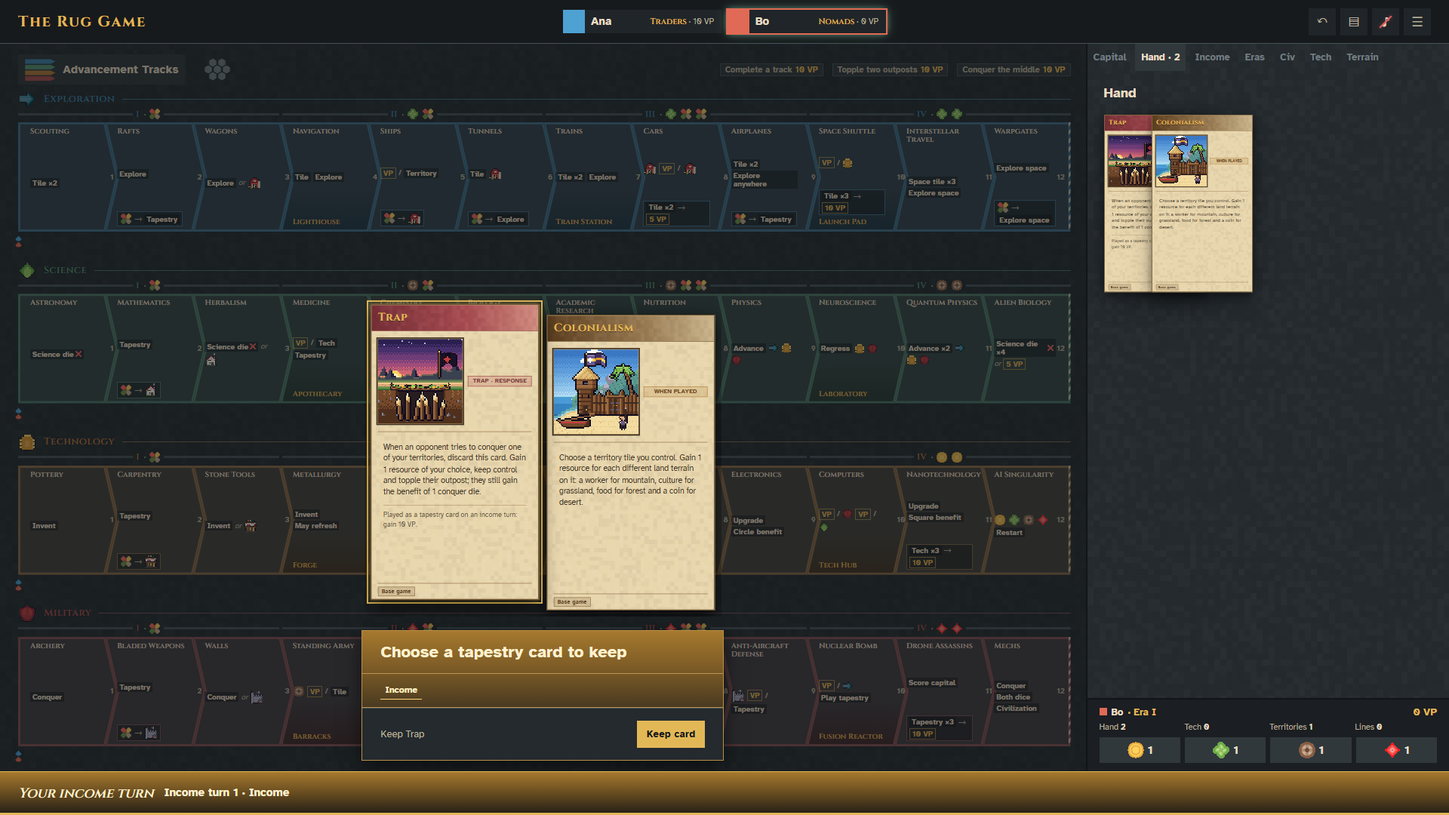
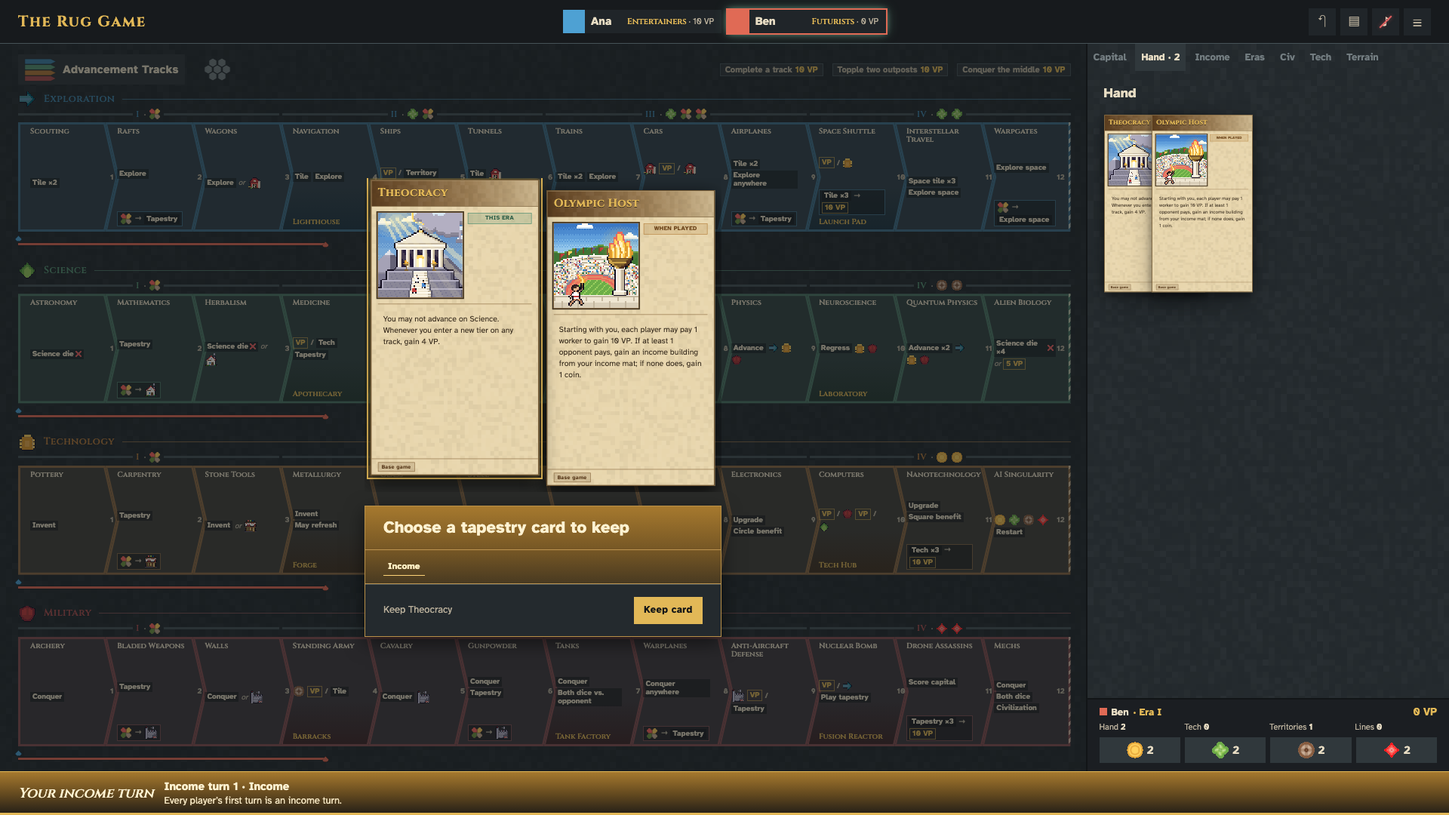
Fix #79: the README and docs show every prompt at the tracks' centre
The README, docs/ui/README.md and the components index show and describe
the new placement, with the prompt screenshots retaken from the running
game at 1920x1080 and a new one of the tech cards to invent. The design
document records the owner's two rulings, CLAUDE.md the cross-issue one,
and docs/status.md the #79 and #80 entries (Refs #80).

diff --git a/docs/ui/README.md b/docs/ui/README.md
@@ -208,9 +208,9 @@ The arrangement and selection styling are the reference. Labels such as Archipel
 
 - **The World Map** is the real board's hex grid (owner, 2026-10-27): 34 hexes for 1–3 players, 61 for 4–5, flat-topped as on the printed board with start 1 at the top. Each corner of a territory is a wedge of its terrain, an island sits in the middle, and unexplored hexes are dark and dashed. Outposts are squares in the player's colour (toppled ones lie down), tokens are circles. Since #6 every wedge and island shows its terrain's picture (`hex/*`), clipped to its shape, with a coast where land meets sea and the cloud or volcano where R77 puts them, so a tile in any turn stays crisp and shows the terrains the engine scores.
 - **Each space shows its benefit, and its bonus in a small box** (#59, 2026-10-27), as the printed board does: resources, buildings and track symbols are their art; the game symbols without art yet are short words (Tile, Tapestry, Explore, Conquer, Invent, Science die, VP), as #5 decided; a benefit without its own benefit carries a red X; "or" joins a choice. The bonus box shows its price, an arrow and what it gives. The full words are the space's tooltip and label. A board with height to spare makes the spaces up to 1.25 times as tall as wide; on a short screen (1366×768) the symbols shrink and a few bonuses are cut off, with the words still in the tooltip.
-- **The spaces a player can pay for** have a green outline; the selected one keeps the gold outline. The footer then shows the space's benefit and bonus in words, its price and **Advance**. When the payment has a choice, picking the space opens it at once in a panel at the screen's centre: one row per resource, the tier's own resource already filled in (#75); the footer's Advance waits while it is open.
+- **The spaces a player can pay for** have a green outline; the selected one keeps the gold outline. The footer then shows the space's benefit and bonus in words, its price and **Advance**. When the payment has a choice, picking the space opens it at once in a panel at the tracks' centre (#79): one row per resource, the tier's own resource already filled in (#75); the footer's Advance waits while it is open.
 - **The achievements** sit in the head of the shared area, with the claimants' colours and the next VP.
-- **The decision panel** is the mockup's prompt, designed per decision in #28 (below). A map decision lights up its hexes and leaves the map clickable.
+- **The decision panel** is the mockup's prompt, designed per decision in #28 (below). Since #79 it opens at the centre of the tracks, with any cards on a shelf above it; a map decision lights up its hexes, and on the Map view the panel docks at the right so the map stays clickable.
 - **The header** has the turn clock when the timer is on (red, with the seconds in words, in the viewer's last 5 seconds) and **Undo**.
 - **Your overview** at the foot of the player area is the mockup's compact block; its last count is complete capital lines.
 
@@ -235,7 +235,7 @@ The arrangement and selection styling are the reference. Labels such as Archipel
 
 ![Exploring a territory: the player's tiles in the panel, each lit hex with the picked tile's best VP, and the chosen hex previewing it turned once](screens/game-prompt-explore.png)
 
-![Paying for an advance: one row of the four resources in a panel at the screen's centre](screens/game-prompt-advance.png)
+![Paying for an advance: one row of the four resources in a panel at the tracks' centre](screens/game-prompt-advance.png)
 
 ![Paying a bonus with tiles: the tiles three to a row, 1 of 2 chosen](screens/game-prompt-tiles.png)
 
@@ -246,15 +246,26 @@ The arrangement and selection styling are the reference. Labels such as Archipel
 ![The income turn](screens/game-prompt-income.png)
 
 - **One model for every decision:** `src/lib/prompts.js` turns the open decision into a title, an instruction, a layout and one option per answer, each chosen in the panel, on the card shelf, on the map or on the capital. Nothing is sent until Confirm, even with one answer.
-- **Several resources, cards or tiles (#75):** as on Board Game Arena, each resource to choose is a row of the four resources with the counts the player would hold, and each card or tile a picture to press; a count says how many are chosen, and Confirm sends only one of the decision's own answers (`src/lib/picks.js`). Rows stack and the panel sits at the screen's centre (owner); a payment in tapestry or tech cards keeps the shelf above a panel at the bottom. A resource no legal answer allows is off, with the reason as its title; the overview's counters show the choices so far; a gain past 8 says, in red, what would be lost. A trade picks its offer first, then its rows. A decision with only one way to pay keeps its one option. The design is `docs/superpowers/specs/2026-10-28-multi-select-prompt-design.md`.
+- **Several resources, cards or tiles (#75):** as on Board Game Arena, each resource to choose is a row of the four resources with the counts the player would hold, and each card or tile a picture to press; a count says how many are chosen, and Confirm sends only one of the decision's own answers (`src/lib/picks.js`). Rows stack and the panel sits at the centre (owner); since #79 that is the tracks' centre, as for every prompt, card payments included. A resource no legal answer allows is off, with the reason as its title; the overview's counters show the choices so far; a gain past 8 says, in red, what would be lost. A trade picks its offer first, then its rows. A decision with only one way to pay keeps its one option. The design is `docs/superpowers/specs/2026-10-28-multi-select-prompt-design.md`.
 - **The dice tray (#61):** every science-die, conquer-dice and Alchemists roll tumbles in a tray over the middle of every screen at the table, the pass screen too, for about a second, lands on the rolled faces (style C die bodies with the track symbol, VP words, a resource icon or ? drawn on), holds under a caption ("Vera rolls the conquer dice", "You roll…" online), and fades; several rolls in one batch play in order. Only fresh events roll, so a refresh plays nothing. A click or Escape ends it; it takes no focus, and a live region reads each result once in the log's words. With reduced motion the dice land at once. A dice cue joins the sounds. The design is `docs/superpowers/specs/2026-10-28-dice-tray-design.md`.
 - **Footer while a decision is open:** the panel asks the question; the footer gives its turn context. During setup it says **Your setup choice**. During a played turn it names the active turn and its latest advance where one is known. During income it keeps the turn number and step, without repeating the panel title. The TurnBar library section shows both decision states. A future exact cause line belongs to #60.
 - **Art, as in the mockup:** resources at 48 px with their counts, track symbols, buildings, landmarks, civilization portraits, space and territory tiles; dice faces and VP are words (#5). A bonus shows its cost and takes its track's colour.
-- **Cards** sit on a shelf above the panel, as full cards: tapestry cards (play, keep, discard, copy, respond), tech cards with the deck as a card back, both civilizations at setup and the two capital mats. Hovering a tapestry or tech card shows it in full.
+- **Cards** sit on a shelf above the panel, the two one stack at the tracks' centre (#79), as full cards: tapestry cards (play, keep, discard, copy, respond), tech cards with the deck as a card back, both civilizations at setup and the two capital mats. Hovering a tapestry or tech card shows it in full.
 - **Civilizations and capital mats** (2026-10-27, #56–#58): the civilization cards are whole, 425 px wide at their own height, as the decision mockup shows them, and the gold outline wraps each card exactly. A row too tall for the shelf is scaled down just enough, never below 0.75; past that the shelf scrolls (the Mystics at 1440×900). Each capital mat is its real 9×9 grid, 380 px, composed from the terrain tiles with the table's seed, so it looks as it will in the Capital tab; the example mat art is no longer used. A panel with no options of its own has no content area: its status line gives the instruction, leaving the shelf more height.
 - **The map:** choosing a territory lists its answers. An explore (#74) shows the tiles the player holds as pictures in the panel. Pick a tile and every lit hex shows the most that tile scores there. Pick a hex and the tile goes on it at its best turn, previewed on the map. Turn it with the arrows or the R key until it suits; the chosen line and the VP beside the arrows follow. Explore stays in view however many tiles there are. The Terrain tab's tiles can be picked too. While a panel is docked for a choice on the map (an explore, a conquest, a Nomads placement), the map makes room for it, so no hex lies under the panel.
 - **The capital:** a building's open plots are lit on the Capital tab and a click previews it there; a landmark comes from the tray, snaps only to the engine's legal places, turns with . or , (R before #83), and the piece's own lock sends it. Beside the mat and the Craftsmen's columns stay panel choices.
 - **The income turn** is gold, as in the mockup: the panel's title and step strip (Ability, Tapestry, Upgrade, Score, Income, only the steps that turn runs) and the footer's "Your income turn · Income turn n · step".
+
+**Built in #79 (2026-10-28): every decision prompt at the tracks' centre.** The owner ruled that every prompt opens at the centre, then, reviewing the library, that it is the centre of the tracks, not of the screen. The design is `docs/superpowers/specs/2026-10-28-decision-prompt-design.md`.
+
+![Inventing: the tech cards and the deck above the panel, one stack at the tracks' centre](screens/game-prompt-invent.png)
+
+- **One place:** the shared area's scrim, and in its middle one column: the shelf of cards, if any, 18 px above the panel. Options prompts, card choices, card and tile payments, a choice on the map seen from the Tracks view, placing on the Capital tab, an advance's payment and the first-income notice all open there; the bottom placement is gone. The stack's middle is the shared area's, which is also the screen's vertical middle.
+- **The one exception:** while the Map view shows a choice on the map, the panel docks at the right and the map lays itself out beside it (#26, #74).
+- **The shelf** is as tall as its cards, at most the room left above the panel; civilization cards fit that room, never below 0.75 (#57). A shelf wider than the shared area scrolls sideways.
+- **Widths:** a pick of several things, a trade and the notice keep #75's 440 px (`--narrow-panel-width`); any other panel is as wide as its content, 480 to 900 px.
+- **The dice tray** learns from the game what is open: over a panel it rolls at the top of the board, as #61 approved; over a stack of cards, which can fill the board's height, it rolls over the player area.
+- **Code:** `src/screens/game/DecisionPrompt.svelte` renders the one panel from `src/lib/prompt-state.svelte.js` (what the viewer has chosen, keyed to the decision) and `panelControls` in `src/lib/prompts.js` (its words and buttons).
 
 **Built in #77 (2026-10-28): the first turn takes income by itself.** The owner changed the issue's brief: "Just make the first income automatic. make sure player knows what's going on. also make sure player knows when there are no more legal moves except to income." The design is `docs/superpowers/specs/2026-10-28-first-income-turn-design.md`.
 
@@ -263,7 +274,7 @@ The arrangement and selection styling are the reference. Labels such as Archipel
 ![A turn with only income to take: the footer from the component library](screens/game-forced-income.png)
 
 - **Income turn 1 is never asked.** A first turn must be an income turn (01 §4.1), so the engine takes it for every seat in turn order as setup ends. It still stops for whatever that turn asks, such as the tapestry draft's keep, and the gold footer then adds "Every player's first turn is an income turn." While another player's first income asks them something, the waiting footer says "Ana is taking their first income turn." (later: "Ana is taking income turn 3.").
-- **The notice** (`IncomeNotice`) opens once per player, in the gold income panel at the screen's centre, after their income turn 1: **Era I begins**, why nobody asked, "You start with" their resources as chips and their holdings in words, and "From now on, each turn you either advance on a track or take income." **Got it** or Escape closes it. It never opens over a question, and a refresh or the other seat at a hot-seat screen doesn't bring it back (`sessionStorage`, per table and seat).
+- **The notice** (`IncomeNotice`) opens once per player, in the gold income panel at the tracks' centre (#79), after their income turn 1: **Era I begins**, why nobody asked, "You start with" their resources as chips and their holdings in words, and "From now on, each turn you either advance on a track or take income." **Got it** or Escape closes it. It never opens over a question, and a refresh or the other seat at a hot-seat screen doesn't bring it back (`sessionStorage`, per table and seat).
 - **A turn with only income to take** says "You can't pay for any advance, so take an income turn." with what this income turn does, and a gold **Take income** where **Advance** sits; the left-side income reveal is gone, and selecting a track space keeps this footer.
 - **The income words** name the eras: "End era I, gain income and begin era II." up to era IV, and "End era IV, score it and finish playing." before income turn 5.
 
@@ -322,7 +333,7 @@ Progress lines start below the first tile and stop beneath the middle of the rea
 
 ### Decision prompt previews
 
-The **Decision examples** control opens interactive layout fixtures for payment, resource, territory, capital-plot, card, civilization setup, die and trap decisions. These examples test presentation and selection only; the engine supplies legal options, costs and outcomes in production. A prompt covers only the shared left three-quarter field, leaving the private right-hand area visible. A translucent dark scrim reveals the board beneath it. The panel sits a small distance above the footer, centered horizontally. Its width and height follow the decision content up to the available shared-field size; long decisions scroll inside the panel. Ordinary panels use a darker layer of the same pixel-noise texture as both middle regions, with a thin border on all four sides matching the main header and footer separators. Choice artwork uses the native art files, including 48 px resource icons where a resource is the primary choice. Card selection presents actual artwork cards with drop shadows **above** the panel; the panel holds the instruction and confirmation action. The civilization setup example models two dealt cards when Random civilizations is on.
+The **Decision examples** control opens interactive layout fixtures for payment, resource, territory, capital-plot, card, civilization setup, die and trap decisions. These examples test presentation and selection only; the engine supplies legal options, costs and outcomes in production. A prompt covers only the shared left three-quarter field, leaving the private right-hand area visible. A translucent dark scrim reveals the board beneath it. The panel sits a small distance above the footer, centered horizontally; the built game opens every prompt at the tracks' centre instead (#79). Its width and height follow the decision content up to the available shared-field size; long decisions scroll inside the panel. Ordinary panels use a darker layer of the same pixel-noise texture as both middle regions, with a thin border on all four sides matching the main header and footer separators. Choice artwork uses the native art files, including 48 px resource icons where a resource is the primary choice. Card selection presents actual artwork cards with drop shadows **above** the panel; the panel holds the instruction and confirmation action. The civilization setup example models two dealt cards when Random civilizations is on.
 
 The chained **Ships → Farm** preview opens only after the player presses **Pay & build** in the optional Ships footer. It starts with a benefit prompt offering **Pay & build** or **Cancel**; Skip remains in the footer. Paying selects and highlights the Capital tab. The player chooses any empty, passable square directly on that mat; no separate tile list or persistent plot highlight is shown. Choosing the square places the visual Farm fixture and opens the **Complete** stage with its actual square and one **Continue** action. The stage labels describe progress; they are not menu choices. The prompt title uses gold Atkinson, and its bottom section takes the source advancement track colour, matching the optional footer effect. Cancel returns to the optional footer without placing anything. No resource balance or saved game state is changed.
 

diff --git a/docs/architecture.md b/docs/architecture.md
@@ -21,7 +21,7 @@ The project's modules in detail, with the issue that added each. CLAUDE.md keeps
 - `api/rooms.mjs` holds the table rules (#22) as pure transitions in Bird Table's style: `createRoom`, `configure`, `join`, `addSeat`, `removeSeat`, `leave`, `start`, `end` and `play`, plus `settings`, `undo`, `timeout`, `tick`, `nextDeadline`, `scopeOf`, `phase`, `seatsOf` and `cleanName`. #25 adds `ready` (a seat's readiness in an online lobby, cleared by a host change). #29 adds `deal` (0 before the first deal, 1 more at each `start`, in the room view), so the client tells a new deal from the old game. #24 adds `TIMERS` (off, 1, 2 and 5 minutes), `HISTORY_LIMIT` (20 undo steps) and `AUTO_LIMIT` (1,000 automatic answers in a row), and the room fields `timer`, `undo`, `clocks`, `declines` and `history`. Each returns a new room, or `null` when it closes, and throws the engine's `PlayerError`. The code says room, players see table. For the server's `Map` of rooms it has `newCode`, `addRoom` (`MAX_ROOMS` 1,000), `expireRooms` (`ROOM_IDLE_MS`, a day), `openTables` and `unfinishedSeat`. Room seat `i` is game seat `i + 1`; seats never move or disappear while a game is on the table. It uses the engine only through `src/lib/engine/game.js`, whose `checkOptions()` checks a table's options.
 - **Client.** The browser interface is **Svelte 5** with runes forced on (5.57.2), built by **Vite** (8.3.4), without SvelteKit. The project root is Vite's root, laid out like the owner's other Svelte projects (owner, 2026-10-21). The full layout is in docs/conventions.md.
   - `index.html` is the game page. `src/main.js` mounts `src/App.svelte`, which shows one screen at a time from the store (#25): `src/screens/Landing.svelte`, `Lobby.svelte` and, once a game is dealt, `Game.svelte` (#26), with `PageHeader.svelte` and `HelpPanel.svelte`. Screens own state and call the store; the components in `src/lib/components/` stay presentational.
-  - The client's plain modules (#25), each tested under Vitest: `src/lib/api.js` (`createApi`, `ApiError`; the token in `sessionStorage`, so each tab is its own guest), `changes.js` (`change()`: a stale version is retried once while the seats stay the same), `boot.js` (where a returning tab lands), `poll.js` (`pollTable`, one long poll at a time with back-off), `lobby.js` (seat slots, who may change what, labels) and `names.js` (Lazar's name generator). #26 adds `turn.js` (`myDecision`, `advanceOptions`: the engine's own `advances()` and answers run on the viewer's view; #77 adds `incomeWords`, `forcedIncome`, `takingTurnWords` and `firstIncomeNotice`, the words of income turns and the one-time notice after income turn 1), `moves.js` (`sendMove`, `seatToShow`), `board.js` (the tracks and achievements), `hexmap.js` (the board's hex geometry and `mapHexes`), `describe.js` (plain English for effects, costs, decisions and answers), `clock.js` and `overview.js`. #27 adds `src/lib/area/` (`capital.js`, `income.js`, `terrain.js`, `tabs.js`, `players.js`: what each player tab and the overview draw from a seat of the view) and `src/lib/cards/game-cards.js` (`techCardData`, `tapestryCardData` from the engine through `describe.js`); the screens `src/screens/game/PlayerTabs.svelte` and `PlayersOverview.svelte`. #28 adds `src/lib/prompts.js` (`promptFor`, `incomeView`, `effectArt`: what the decision panel draws for an open decision), `src/lib/area/explore.js` (`exploreTiles`, `tileScores`, `hexScores`, `exploreIndex`, `tilePreview`, `tileWords`, `exploreLine`: the tiles an explore offers, what each scores on each hex in each turn, and the words for the chosen one; #74 replaced `exploreChoices`) and `src/lib/area/placement-targets.js` (`plotTargets`, `legalNear`, `nextRotation`, `placeNear`, `placingPiece`: the capital's legal places for the Capital tab). #29 adds `src/lib/event-feed.js` (`freshEvents`: the events since the last view of the same table and deal, none after a refresh; `liveEvents`: without what an `undone` took back), `log.js` (`eventText`, `logEntries`, `SILENT`: the log's words), `results.js` (`standings`, `tieExplanations`, `yourResult`, `ruleNote`, `tableFacts`, `scoreboard`, `VP_SOURCES`), `sound.js` (`cueFor`, `createSoundPlayer`, the CC0 Kenney cues in `static/audio/`) and `motion.js` (`highlights`); the store keeps `fresh` and `freshCount`, and App shows `src/screens/Results.svelte` for a finished game unless the player reviews the board. #30 adds `src/lib/pass.js` (`handOver`: at a hot-seat table, which view to take or ask for and whom the pass screen names; `passReason`) and the screen `src/screens/HandOver.svelte`; the store keeps `passing`, `taking` and `takeSeat()`, and App shows the pass screen instead of the game while a player is named. #83 adds `src/lib/hotkeys.js` (`hotkeyAction`, `TRACK_KEYS`: the game's hotkeys). #42 adds `src/lib/rules-help.js` (`RULES_HELP`, How to play's rules), `src/lib/civ-rules.js` (`civRules`, `civAbilityText`: the base civilizations' full abilities by version), `src/lib/shortcuts.js` (`SHORTCUTS`) and the screen part `src/screens/game/RulesPanel.svelte`. #61 adds `src/lib/dice.js` (`rollsOf`, `faceOf`: the rolls in a batch of fresh events, the faces they land on and their captions; `App.svelte` draws the `DiceTray` over every screen) and the die bodies in `tools/art/parts/dice.js`. #75 adds `src/lib/picks.js` (`pickModel`, `advanceModel`, `tradeOffers`, `offerModel`, `emptySelection`, `togglePick`, `toggleItem`, `canPick`, `canPickItem`, `matchIndex`, `pendingCounts`, `pickStatus`, `rowView`: several resources, cards or tiles chosen one by one and matched to one of the decision's answers; `promptFor` carries its `picks` and a trade's offers). #59 adds `src/lib/glyphs.js` (`effectGlyphs`, `spaceGlyphs`, `bonusGlyphs`: what a track space draws for its benefit and bonus), and #56 `matPlots` and `terrainSeed` in `src/lib/area/capital.js`. `src/lib/game.svelte.js` is the rune store that ties them together. `src/lib/engine/game.js` also exports `completeDistricts`, `uniformLines`, `matchingSides`, `turned`, `INCOME_STEPS`, `INCOME_STEP_KINDS`, and `advances`, `DECISIONS`, `openDecisions`, `controlledTerritories`, `cityPlots` and `completeLines` for the app.
+  - The client's plain modules (#25), each tested under Vitest: `src/lib/api.js` (`createApi`, `ApiError`; the token in `sessionStorage`, so each tab is its own guest), `changes.js` (`change()`: a stale version is retried once while the seats stay the same), `boot.js` (where a returning tab lands), `poll.js` (`pollTable`, one long poll at a time with back-off), `lobby.js` (seat slots, who may change what, labels) and `names.js` (Lazar's name generator). #26 adds `turn.js` (`myDecision`, `advanceOptions`: the engine's own `advances()` and answers run on the viewer's view; #77 adds `incomeWords`, `forcedIncome`, `takingTurnWords` and `firstIncomeNotice`, the words of income turns and the one-time notice after income turn 1), `moves.js` (`sendMove`, `seatToShow`), `board.js` (the tracks and achievements), `hexmap.js` (the board's hex geometry and `mapHexes`), `describe.js` (plain English for effects, costs, decisions and answers), `clock.js` and `overview.js`. #27 adds `src/lib/area/` (`capital.js`, `income.js`, `terrain.js`, `tabs.js`, `players.js`: what each player tab and the overview draw from a seat of the view) and `src/lib/cards/game-cards.js` (`techCardData`, `tapestryCardData` from the engine through `describe.js`); the screens `src/screens/game/PlayerTabs.svelte` and `PlayersOverview.svelte`. #28 adds `src/lib/prompts.js` (`promptFor`, `incomeView`, `effectArt`: what the decision panel draws for an open decision), `src/lib/area/explore.js` (`exploreTiles`, `tileScores`, `hexScores`, `exploreIndex`, `tilePreview`, `tileWords`, `exploreLine`: the tiles an explore offers, what each scores on each hex in each turn, and the words for the chosen one; #74 replaced `exploreChoices`) and `src/lib/area/placement-targets.js` (`plotTargets`, `legalNear`, `nextRotation`, `placeNear`, `placingPiece`: the capital's legal places for the Capital tab). #29 adds `src/lib/event-feed.js` (`freshEvents`: the events since the last view of the same table and deal, none after a refresh; `liveEvents`: without what an `undone` took back), `log.js` (`eventText`, `logEntries`, `SILENT`: the log's words), `results.js` (`standings`, `tieExplanations`, `yourResult`, `ruleNote`, `tableFacts`, `scoreboard`, `VP_SOURCES`), `sound.js` (`cueFor`, `createSoundPlayer`, the CC0 Kenney cues in `static/audio/`) and `motion.js` (`highlights`); the store keeps `fresh` and `freshCount`, and App shows `src/screens/Results.svelte` for a finished game unless the player reviews the board. #30 adds `src/lib/pass.js` (`handOver`: at a hot-seat table, which view to take or ask for and whom the pass screen names; `passReason`) and the screen `src/screens/HandOver.svelte`; the store keeps `passing`, `taking` and `takeSeat()`, and App shows the pass screen instead of the game while a player is named. #83 adds `src/lib/hotkeys.js` (`hotkeyAction`, `TRACK_KEYS`: the game's hotkeys). #42 adds `src/lib/rules-help.js` (`RULES_HELP`, How to play's rules), `src/lib/civ-rules.js` (`civRules`, `civAbilityText`: the base civilizations' full abilities by version), `src/lib/shortcuts.js` (`SHORTCUTS`) and the screen part `src/screens/game/RulesPanel.svelte`. #61 adds `src/lib/dice.js` (`rollsOf`, `faceOf`: the rolls in a batch of fresh events, the faces they land on and their captions; `App.svelte` draws the `DiceTray` over every screen) and the die bodies in `tools/art/parts/dice.js`. #75 adds `src/lib/picks.js` (`pickModel`, `advanceModel`, `tradeOffers`, `offerModel`, `emptySelection`, `togglePick`, `toggleItem`, `canPick`, `canPickItem`, `matchIndex`, `pendingCounts`, `pickStatus`, `rowView`: several resources, cards or tiles chosen one by one and matched to one of the decision's answers; `promptFor` carries its `picks` and a trade's offers). #59 adds `src/lib/glyphs.js` (`effectGlyphs`, `spaceGlyphs`, `bonusGlyphs`: what a track space draws for its benefit and bonus), and #56 `matPlots` and `terrainSeed` in `src/lib/area/capital.js`. #79 moves the decision prompt out of `Game.svelte`: `src/lib/prompt-state.svelte.js` (`PromptState`, a rune class like the store: what the viewer has chosen in the open decision or an advance's payment, keyed to the decision, what the map, the Capital and Terrain tabs, the overview, the footer and the dice tray read of it, and the actions that change it or send the answer), `panelControls` and `paymentControls` in `src/lib/prompts.js` (the panel's status, labels and Confirm), `spaceWords` in `src/lib/board.js` (a space's words for the track and the footer), and the screen part `src/screens/game/DecisionPrompt.svelte`, which renders the one `DecisionPanel`. `Game` binds what is open over its board (`panel`) to `App`, which hands it to the `DiceTray`. `src/lib/game.svelte.js` is the rune store that ties them together. `src/lib/engine/game.js` also exports `completeDistricts`, `uniformLines`, `matchingSides`, `turned`, `INCOME_STEPS`, `INCOME_STEP_KINDS`, and `advances`, `DECISIONS`, `openDecisions`, `controlledTerritories`, `cityPlots` and `completeLines` for the app.
   - `components.html` is the component library page (#48). `src/library/main.js` mounts `src/library/Library.svelte`, which collects every `src/library/sections/<area>/<Name>.svelte` and shows each component in all its states. `src/lib/components/README.md` indexes the components.
   - `src/lib/` holds everything the app shares:
     - `components/<area>/` holds the Svelte components, grouped by area;

diff --git a/docs/status.md b/docs/status.md
@@ -8,7 +8,8 @@ Updated 2026-10-28. The issues are listed in the order they were finished.
 
 - **At a glance:**
   - M0 to M5 are built: a whole base game can be played with the mouse, online or hot-seat. One of their issues is still open: #45 (the owner checks R12 and R39 against the box).
-  - M12 · Cosmetic enhancements: #61, #66, #67, #68, #69, #70, #72, #74 and #75 are done.
+  - M12 · Cosmetic enhancements: #61, #66, #67, #68, #69, #70, #72, #74, #75 and #80 are done; #79 is built.
+  - #80's scan filed #84 and #86–#131, ranked in its summary comment.
   - Solo play (M6) and the expansions (M7–M9) come next by milestone; see [Working on issues](../CLAUDE.md#working-on-issues) for the order and the blockers.
 - **Done:**
   - Rules research (`docs/research/`).
@@ -26,6 +27,8 @@ Updated 2026-10-28. The issues are listed in the order they were finished.
   - #77 (the first turn takes income by itself) is built; it closes once the owner has looked at its IncomeNotice and TurnBar sections in the component library.
   - #42 (How to play in the game, the keyboard shortcuts and the civilizations' text) is done for the base game; each expansion issue adds its own text.
   - #83 (the game's hotkeys) is done; its commit closed it on 2026-10-28, and the owner can still check the new TurnBar states in the component library.
+  - #79 (every decision prompt at the tracks' centre, the prompt out of `Game.svelte`) is built on its branch, after the owner's ruling on the library; it closes when it merges.
+  - #80 is done: its findings are #84 and #86–#131.
   - Then the next unblocked issues by milestone (see [Working on issues](../CLAUDE.md#working-on-issues)).
   - #45 Check R12 (landmark heights) and R39 (decision-card arrows) against the physical box. This is the owner's job, and it blocks nothing.
   - The cosmetic boards wait in #51 until the core features are done.
@@ -496,6 +499,21 @@ Built on 2026-10-28, filed and specified by the owner in a few messages after #4
   - Calls to revisit: **M** on the map goes back to the tracks; the track question's numbered buttons work with the mouse too; a track with several tokens advances the most advanced; Enter acts only when no control has the focus (a focused button presses itself); a decision panel's controls don't block the hotkeys, a menu, a modal or a field does; the Tab peek waits 200 ms.
   - Tests: `tests/client-hotkeys.test.mjs` (every key in each context), `tests/client-shortcuts.test.mjs` (every hotkey is listed), `tests/browser/hotkeys.test.mjs` (a hot-seat game played with the keys: Enter, W, Q, M, 2, a held Tab, A then 1, and I asked, cancelled and taken). `explore-prompt` presses **.** where it pressed R.
   - Handed off: #35 gives the arts track key **5** in `TRACK_KEYS`.
+
+### #80 (scan the client for code that should be its own component)
+
+Done on 2026-10-28, with no code change. Five read-only passes covered `src/App.svelte`, `src/screens/`, every component in `src/lib/components/`, every client module in `src/lib/` and the library sections. The findings were merged where they touch the same code and filed as #84 (nine small bugs) and #86–#131, each in the repository's layout, with the M12 milestone and blocked-by links where they must land in order. The ranked list is the summary comment on #80. Line numbers in those issues are as of commit 047209f.
+- Highest cost to open work: #86 (the turn footer, for #62 and #71), #95 (split `PlayerTabs`, for #78 and #82), #106 and #107 (the civilization card from data; #47 closed without it), #123 (one names module) and #127 (the client's track lists from the engine, for #35).
+- Handed off: #79 was the first finding; the issues blocked by it are listed on #80.
+
+### #79 (the decision prompt in one place, at the tracks' centre)
+
+Built on 2026-10-28. The design is `docs/superpowers/specs/2026-10-28-decision-prompt-design.md`. The owner ruled that every prompt opens at the centre, then, reviewing the library, that it is the centre of the tracks, not of the screen.
+- Built: `src/lib/prompt-state.svelte.js` (`PromptState`: the prompt's selection keyed to the decision, what the board, the player area, the footer and the dice tray read, and the actions), `panelControls` and `paymentControls` in `src/lib/prompts.js`, and the screen part `src/screens/game/DecisionPrompt.svelte`. `Game.svelte` went from 1,926 to about 1,100 lines and keeps only the turn's state. `DecisionPanel` centres by default, with the shelf and the panel as one stack; `centred` became `narrow` (440 px, `--narrow-panel-width`) and `docked` stays for the Map view. `CardShelf` takes the `room` the panel leaves it. `DiceTray` takes `panel` from the game (bound from `Game` through `App`) instead of finding the panel by its class, and Enter confirms through the prompt state instead of clicking the panel's button. The library's DecisionPanel and DiceTray sections show the stacks in a scaled 1920×1080 screen (`src/library/Screen.svelte`).
+  - Also: the footer words a space as its track does, so an ordered space says "then" (`spaceWords` in `board.js`, Refs #84), and the landmark prompt names the **.** and **,** keys instead of R.
+  - Calls to revisit: the stack is centred in the shared area, so on the vertical its middle is the screen's, a little above the tracks' own middle (the board's head row sits above them); a dice roll over a stack of cards rolls over the player area; the options panel's 480 to 900 px width and the shelf's 18 px gap are #28's.
+  - Tests: `tests/client-prompts.test.mjs` (`panelControls`, `paymentControls`), `tests/client-prompt-state.test.mjs` (resets, explore, picks, trades, shelf, placement, payment, sending), `tests/client-board.test.mjs` (`spaceWords`), `tests/browser/decision-prompt.test.mjs` (a card choice and an options prompt open at the tracks' centre); the pick tests measure against the tracks' centre.
+  - Handed off: #86, #88, #92, #96, #97, #99, #105, #116, #117, #118, #119, #126, #129 and #131 waited for this.
 
 ## Card-design handoff (2026-10-24, Refs #3 #47)
 

diff --git a/docs/superpowers/specs/2026-10-28-decision-prompt-design.md b/docs/superpowers/specs/2026-10-28-decision-prompt-design.md
@@ -4,28 +4,28 @@ Written 2026-10-28. What the owner said is marked **(owner)**, every other decis
 
 ## 1. The ruling
 
-- **Every decision prompt opens at the screen's centre (owner, 2026-10-28).** This replaces #75's "a payment in tapestry or tech cards keeps the shelf above a panel at the bottom".
+- **Every decision prompt opens at the centre (owner, 2026-10-28).** This replaces #75's "a payment in tapestry or tech cards keeps the shelf above a panel at the bottom".
+- **The centre of the tracks, not of the screen (owner, 2026-10-28, reviewing the library).** The first build centred the stack on the screen (x = 960 at 1920 px), as #75's pick panels were; the owner asked for the middle of the tracks instead, about 240 px further left. #75's pick panels and #77's notice move with it.
 - **The one exception:** while the Map view shows a choice on the map, the panel stays docked at the right, so the hexes under it stay clickable (#26, #74).
 
 ## 2. Where things open
 
 | Prompt | Before | Now |
 |---|---|---|
-| Paying for an advance, a pick of several resources, cards or tiles, a trade (#75) | Centre | Centre |
+| Paying for an advance, a pick of several resources, cards or tiles, a trade (#75) | Screen's centre | Tracks' centre |
 | An `options` prompt: a track, a token, a yes or no, a civilization ability | Bottom | Centre |
 | Cards on the shelf: tapestry and tech cards, civilizations and capital mats | Bottom, shelf above | Centre: shelf and panel as one stack |
 | A payment in tapestry or tech cards | Bottom, shelf above | Centre: shelf and panel as one stack |
 | Placing a building or landmark on the Capital tab | Bottom | Centre |
 | A choice on the map, Tracks view showing | Bottom | Centre |
 | A choice on the map, Map view showing | Docked right | Docked right |
-| The first-income notice (#77) | Centre | Centre |
+| The first-income notice (#77) | Screen's centre | Tracks' centre |
 
 ## 3. The centred stack
 
 - **One stack (my call):** the shelf, when there is one, sits above the panel, 18 px apart, and the two are centred together on the screen. Without a shelf the panel alone is centred, where #75 put it.
-- **The screen's centre (owner):** the stack's centre is the screen's. The shared area runs from the screen's left edge, so the screen's centre lies 240 px right of the board's at 1920 px.
-- **Too wide for that (my call):** a shelf wider than the room right of the screen's centre would cross into the player area. The stack then slides left, as a whole, and stays on the board; past the board's width the shelf scrolls sideways, as before. Four tech cards to invent (about 1,130 px) slide left; two civilizations (868 px) and three tapestry cards stay at the centre.
-  - CSS does this without measuring: an empty spacer before the stack, `100cqw − 100% − 2 × padding` wide, shrinks first. `100cqw` is the screen's width (the viewport, or a library stage that is a size container), and the panel's area starts at the screen's left edge.
+- **The tracks' centre (owner):** the stack is centred in the shared area the scrim covers, vertically too; the shared area's middle is also the screen's vertical middle, as the header and footer are the same height. A shelf wider than the shared area scrolls sideways, as before.
+  - The first build put the stack at the screen's centre with a spacer sized from `100cqw`, sliding a stack too wide for the room right of the centre back onto the board. The owner's ruling made that unnecessary, and it went.
 - **The cards' height (#57):** `DecisionPanel` measures the room the shelf may take, the stack's height less the panel's and the gap, and hands it to the shelf snippet. `CardShelf` takes it as `room`: civilization cards fit it (never below 0.75, as before), and other cards scroll inside it. Measuring the shelf's own height, as before, would feed back now that the shelf is only as tall as its cards.
 - **Width (my call):** every centred panel is as wide as its content, at least `--centred-panel-width` (440 px, #75's) and at most 900 px. The old bottom panel's 480 px minimum goes.
 - **The `centred` prop goes:** centred is the default. `docked` stays.
@@ -48,5 +48,5 @@ The tray learns what is open from the game, not from `DecisionPanel`'s class (my
 ## 6. Tests
 
 - Vitest: `panelControls` for every status, label, Confirm and cancel case; `PromptState` for a new decision starting empty, an explore with one tile starting with it chosen, a hex choosing the tile's best turn, a trade's offer and Back, a pick's rows, and the advance's payment.
-- Playwright: a card choice (tapestry cards on the shelf) and an `options` prompt open at the screen's centre; the existing prompt, explore, pick and hotkey tests keep passing.
+- Playwright: a card choice (the civilizations on the shelf) and an `options` prompt open at the tracks' centre; the pick tests measure against it too; the existing prompt, explore and hotkey tests keep passing.
 - The library's DecisionPanel section shows the centred panel with a shelf (tapestry, tech, civilizations), and the owner approves it there before the game uses it.

diff --git a/README.md b/README.md
@@ -46,11 +46,15 @@ The colours, texture, type, spacing, shadows and motion of these designs are in 
 
 | Prompt: choosing a capital | Prompt: choosing a civilization |
 |---|---|
-| ![The capital choice: both mats as their 9×9 grids of terrain tiles, with the impassable plots and districts, the chosen one outlined](docs/ui/screens/game-prompt-capital-mat.png) | ![The civilization choice: both cards whole at full size, the chosen one outlined in gold](docs/ui/screens/game-prompt-civ.png) |
+| ![The capital choice at the tracks' centre (#79): both mats as their 9×9 grids of terrain tiles above the panel, the chosen one outlined](docs/ui/screens/game-prompt-capital-mat.png) | ![The civilization choice at the tracks' centre (#79): both cards whole, sized to the room above the panel, the chosen one outlined in gold](docs/ui/screens/game-prompt-civ.png) |
 
-| Prompt: cards on the shelf (the tapestry draft) | Prompt: exploring a territory |
+| Prompt: cards on the shelf (the tapestry draft) | Prompt: tech cards to invent |
 |---|---|
-| ![The tapestry draft's keep prompt: two cards on the shelf above the gold income panel](docs/ui/screens/game-prompt-cards.png) | ![An explore: the player's tiles in the panel, each lit hex with the picked tile's best VP, and the chosen hex previewing it turned once](docs/ui/screens/game-prompt-explore.png) |
+| ![The tapestry draft's keep prompt (#79): two cards on the shelf and the gold income panel, one stack at the tracks' centre](docs/ui/screens/game-prompt-cards.png) | ![Inventing (#79): the three face-up tech cards and the deck above the panel, centred on the tracks, the chosen card outlined](docs/ui/screens/game-prompt-invent.png) |
+
+| Prompt: exploring a territory |
+|---|
+| ![An explore: the player's tiles in the panel docked beside the map, each lit hex with the picked tile's best VP, and the chosen hex previewing it turned once](docs/ui/screens/game-prompt-explore.png) |
 
 | Results: the final standings | The log and the scores |
 |---|---|
@@ -62,11 +66,11 @@ The colours, texture, type, spacing, shadows and motion of these designs are in 
 
 | Prompt: placing a landmark | Prompt: the income turn |
 |---|---|
-| ![The Lighthouse waiting for placement on the Capital tab, with the decision panel below](docs/ui/screens/game-prompt-capital.png) | ![The income turn's tapestry step in gold, with the panel's question shown only once](docs/ui/screens/game-prompt-income.png) |
+| ![The Lighthouse waiting for placement on the Capital tab, with the decision panel at the tracks' centre (#79)](docs/ui/screens/game-prompt-capital.png) | ![The income turn's tapestry step in gold: the card on the shelf above the panel, at the tracks' centre (#79)](docs/ui/screens/game-prompt-income.png) |
 
 | Prompt: paying for an advance, one row per resource | Prompt: paying a bonus with the tiles picked |
 |---|---|
-| ![Advance to Scouting: the centred panel's one row of the four resources, coin picked, and Pay 1 coin beside Cancel and Advance](docs/ui/screens/game-prompt-advance.png) | ![Cars' bonus: the centred panel with six territory tiles three to a row, one chosen, 1 of 2 chosen, and Decline beside Pay 2 tiles](docs/ui/screens/game-prompt-tiles.png) |
+| ![Advance to Scouting: the panel at the tracks' centre with one row of the four resources, coin picked, and Pay 1 coin beside Cancel and Advance](docs/ui/screens/game-prompt-advance.png) | ![A bonus paid in tiles: the panel at the tracks' centre with the territory tiles three to a row, one chosen, 1 of 2 chosen, and Decline beside Pay 2 tiles](docs/ui/screens/game-prompt-tiles.png) |
 
 | The dice tray: a conquest's roll on the other player's screen |
 |---|
@@ -74,7 +78,7 @@ The colours, texture, type, spacing, shadows and motion of these designs are in 
 
 | The first turn: the game took income turn 1 (#77) |
 |---|
-| ![Era I begins: the gold notice over the tracks says every player's first turn is an income turn, so the game took yours; you start with 1 coin, 1 food, 1 worker, 1 culture, 1 territory tile and 1 tapestry card; Got it](docs/ui/screens/game-first-income.png) |
+| ![Era I begins: the gold notice at the tracks' centre says every player's first turn is an income turn, so the game took yours; you start with 1 coin, 1 food, 1 worker, 1 culture, 1 territory tile and 1 tapestry card; Got it](docs/ui/screens/game-first-income.png) |
 
 | A turn with only income to take (#77, the component library's TurnBar) |
 |---|

diff --git a/CLAUDE.md b/CLAUDE.md
@@ -137,6 +137,8 @@ The design document has the details. In short:
 Rulings the owner made along the way. Each issue's design document records its own; these apply across issues.
 
 - The six full capital mat SVGs are examples only. Actual capital mats must be generated from the reusable terrain tiles for each game, following the game setup and the rules-defined plot layout.
+- **Decided 2026-10-28:**
+  - Every decision prompt opens at the centre of the tracks (the shared area), not of the screen, with any shelf of cards above it as one stack. Only a choice on the map, while the Map view shows, docks at the right (owner, #79).
 - **Decided 2026-10-27:**
   - Lazar's mockups decide the look and the owner's design decides what works, where they collide; the client is designed for our own API (owner, #25).
   - Readiness is informational: the host may start without it (owner, #25).
